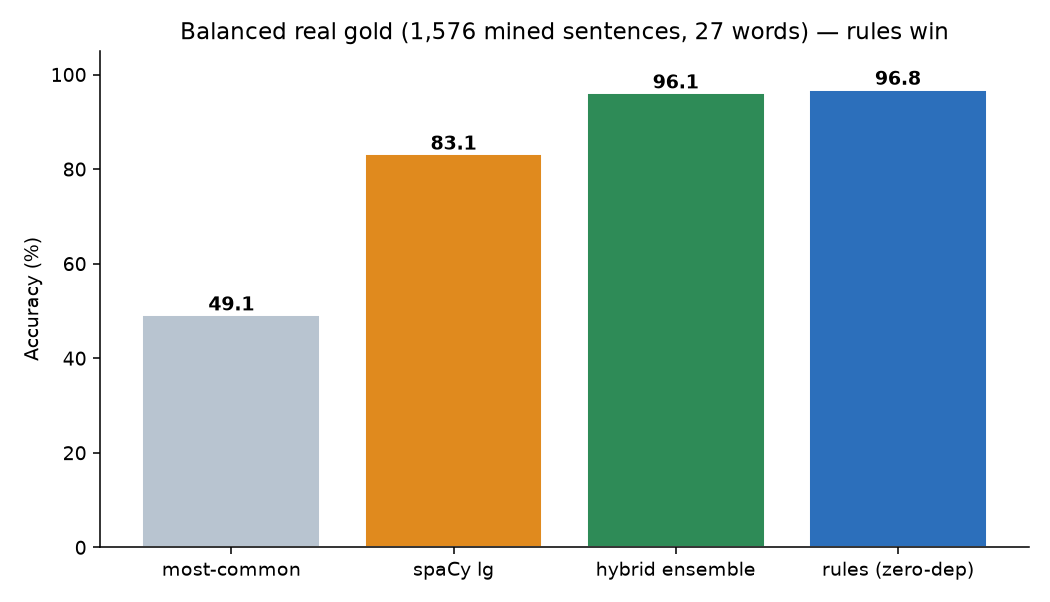
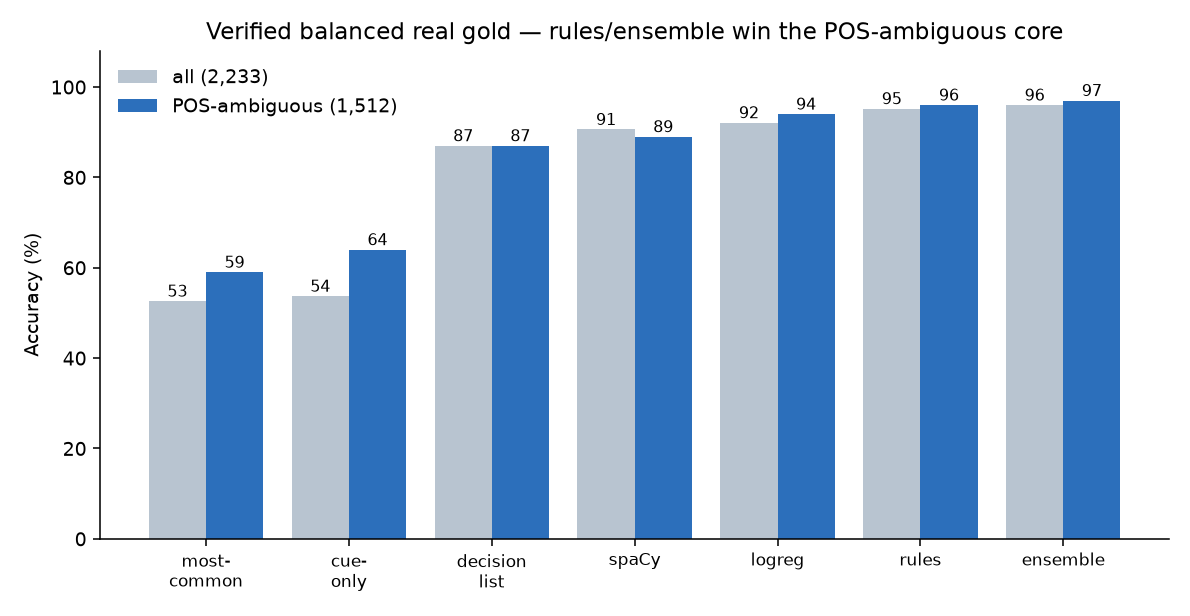
docs(benchmarks): verified-gold numbers (2,233 sentences, all labels verified)
Re-benchmark on the fully label-verified balanced gold: rules 95.2% / ensemble
96.0% / spaCy 90.6%, and on the POS-ambiguous core (68% of the set) rules 96% /
ensemble 97% vs spaCy 89%. Adds logreg + decision-list + cue-only rows; refreshes
the approaches plot.

diff --git a/docs/benchmarks.md b/docs/benchmarks.md
@@ -103,32 +103,29 @@ meaning-based disambiguation where part-of-speech is uninformative.**
 ## Balanced real-gold evaluation
 
 A second real-text set is mined from open sources (OpenSubtitles, news/food/health
-sites, Wikipedia) and labelled independently of the rules. Unlike the encyclopedic
-wild set it is **sense-balanced** — about **half its sentences are POS-ambiguous**
-readings (the same-POS pairs and minority verb senses), so it is a fair test of
-disambiguation rather than dominant-sense prediction.
+sites, Wikipedia) and labelled independently of the rules — every label
+individually verified. Unlike the encyclopedic wild set it is **sense-balanced**:
+**~68% of its sentences are POS-ambiguous** readings (same-POS pairs and minority
+verb senses), so it is a fair test of disambiguation, not dominant-sense prediction.
 
-| approach | balanced real gold (1,576 sentences, 27 words) |
-|---|---|
-| most-common | 49.1% |
-| spaCy `pt_core_news_lg` (POS→sense) | 83.1% |
-| hybrid ensemble (POS tag ⊕ rules) | 96.1% |
-| **rules (zero-dependency)** | **96.8%** |
+| approach | balanced real gold (2,233 sentences, 40 words) | POS-ambiguous subset (n=1,512) |
+|---|:---:|:---:|
+| most-common | 52.6% | 59% |
+| cue-only (wordlists, no POS, no learning) | 53.7% | 64% |
+| Yarowsky decision list (trained) | 87.0% | 87% |
+| spaCy `pt_core_news_lg` (POS→sense) | 90.6% | 89% |
+| logistic regression (numpy, +cues) | 92.1% | 94% |
+| **rules (zero-dependency)** | **95.2%** | **96%** |
+| **hybrid ensemble (POS tag ⊕ rules)** | **96.0%** | **97%** |
 
 ![Balanced real gold — accuracy by approach](img/realgold_approaches.png)
 
-On this balanced set the **rules lead outright**, and adding a POS tag (the
-ensemble) slightly *lowers* accuracy: the tagger mis-tags some POS-separable
-readings the rules already get right. The split makes the reason explicit —
-
-![Real gold by subset](img/realgold_subset.png)
-
-on the **POS-ambiguous** half (n=722) a POS tagger sits at **72%** while the rules
-hold **97%**. The ensemble's lead on the encyclopedic wild set reflects that set's
-noun-skew (mostly POS-separable, dominant-sense sentences); on balanced data the
-meaning-keyed rules are the strongest single approach.
-
-![Rules per-word accuracy on real gold](img/realgold_perword.png)
+Scoring is by **reading** (open/closed IPA), the G2P-relevant target. On the
+POS-ambiguous core — the readings a part-of-speech tagger cannot resolve by
+construction — the meaning rules hold **96%** and the ensemble **97%**, against
+spaCy's **89%**; every learned model (decision list, logistic regression) trails
+the rules out-of-distribution, the same corpus-circularity seen elsewhere. The
+ensemble edges the bare rules by fusing a POS tag on the POS-separable readings.
 
 ## Zero-dependency baselines
 
